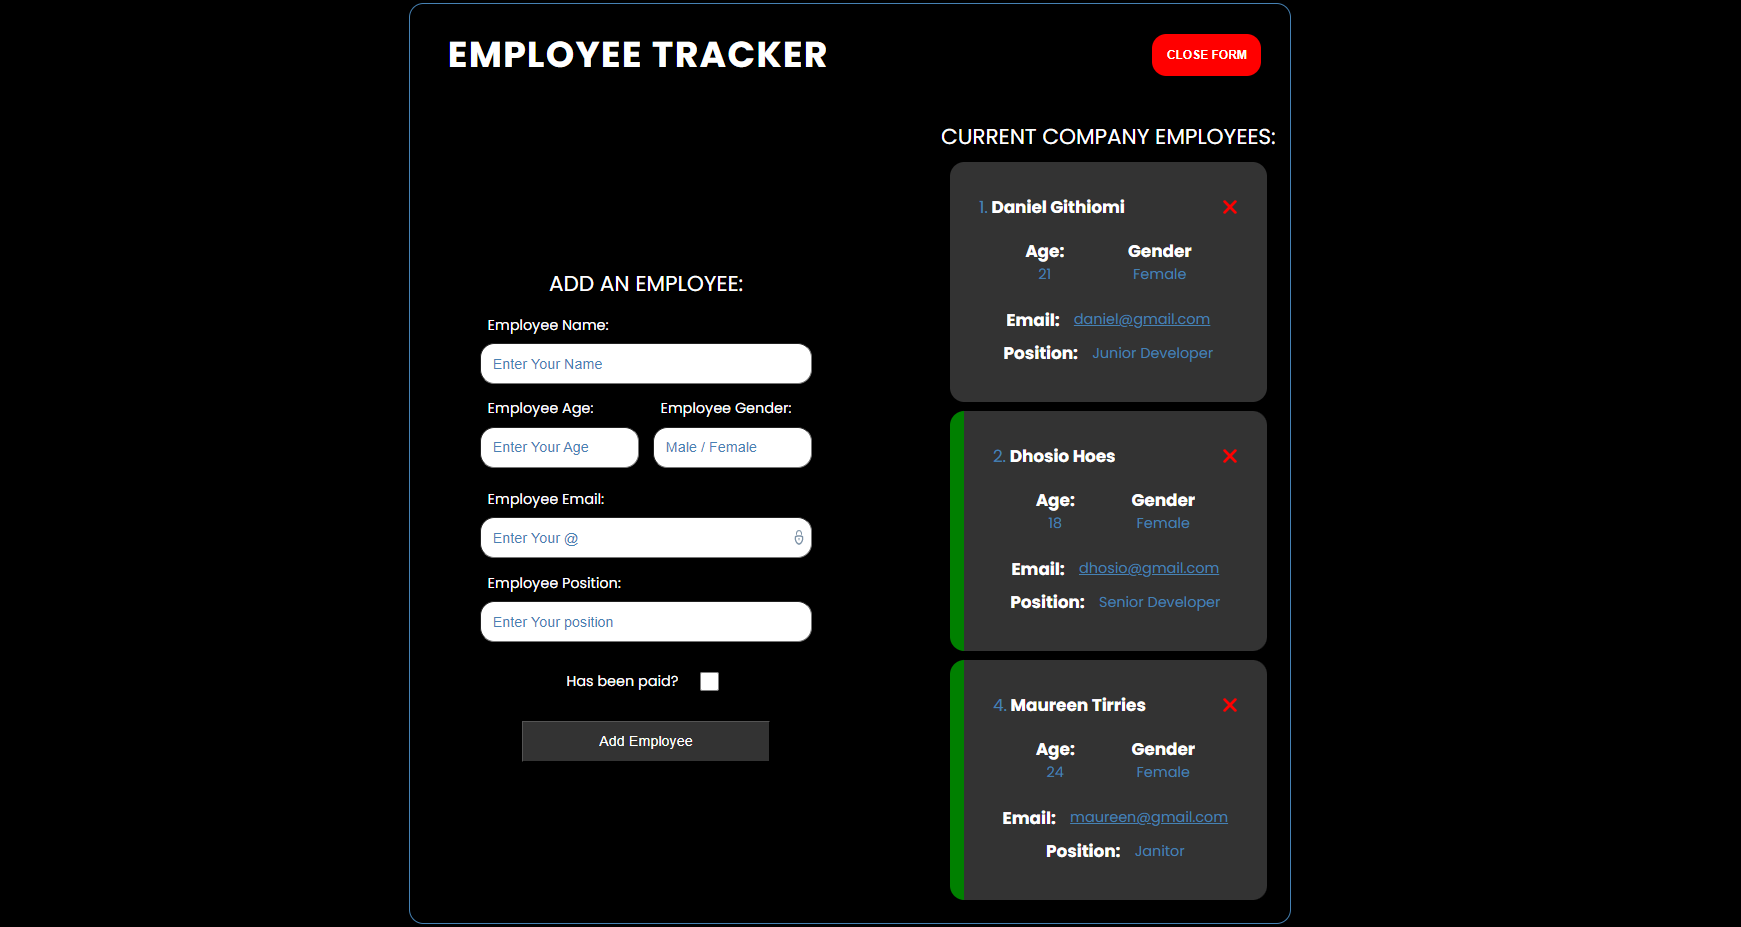
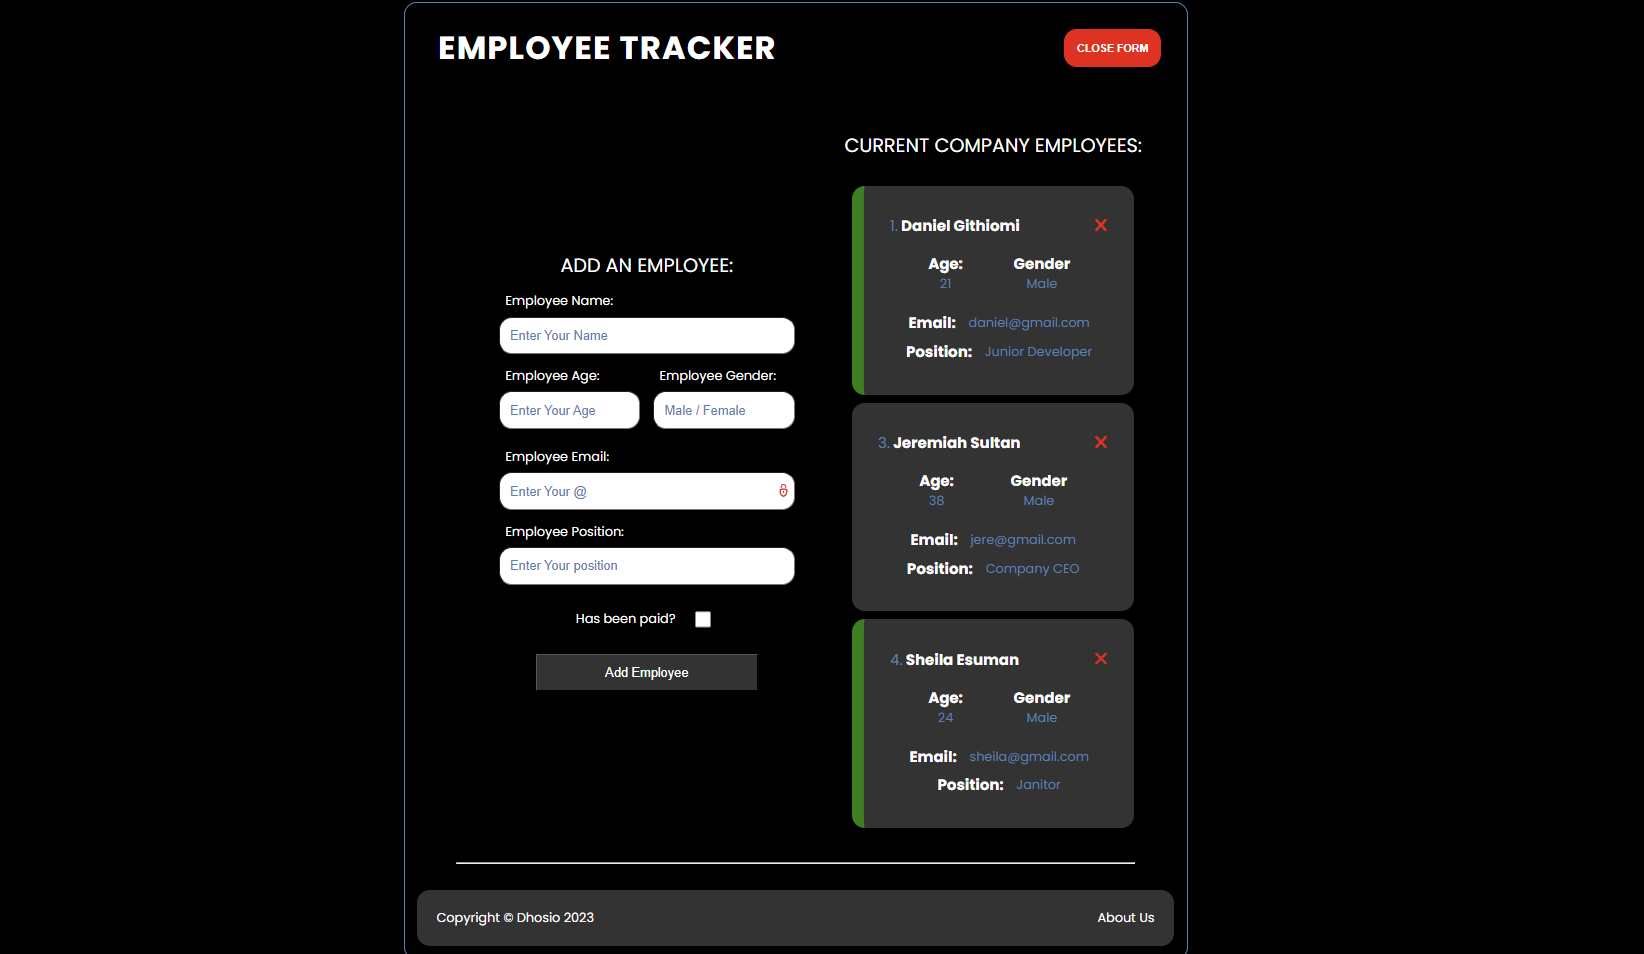
Updated the readme application preview screenshot

Changed region(s): [[0.2482, 0.1208, 0.7445, 0.9968], [0.2482, 0.0302, 0.4964, 0.0906], [0.6204, 0.0302, 0.7445, 0.0906]]

diff --git a/src/app/components/employees/employees.component.html b/src/app/components/employees/employees.component.html
@@ -1,6 +1,8 @@
 <div class="employees">
 
-    <app-add-employee (newEmployeeEmitter)="addEmployee($event)">
+    <div class="sideways">
+
+        <app-add-employee (newEmployeeEmitter)="addEmployee($event)">
 
     </app-add-employee>
 
@@ -30,6 +32,8 @@
             </app-employee-item>
 
         </div>
+
+    </div>
 
     </div>
 
